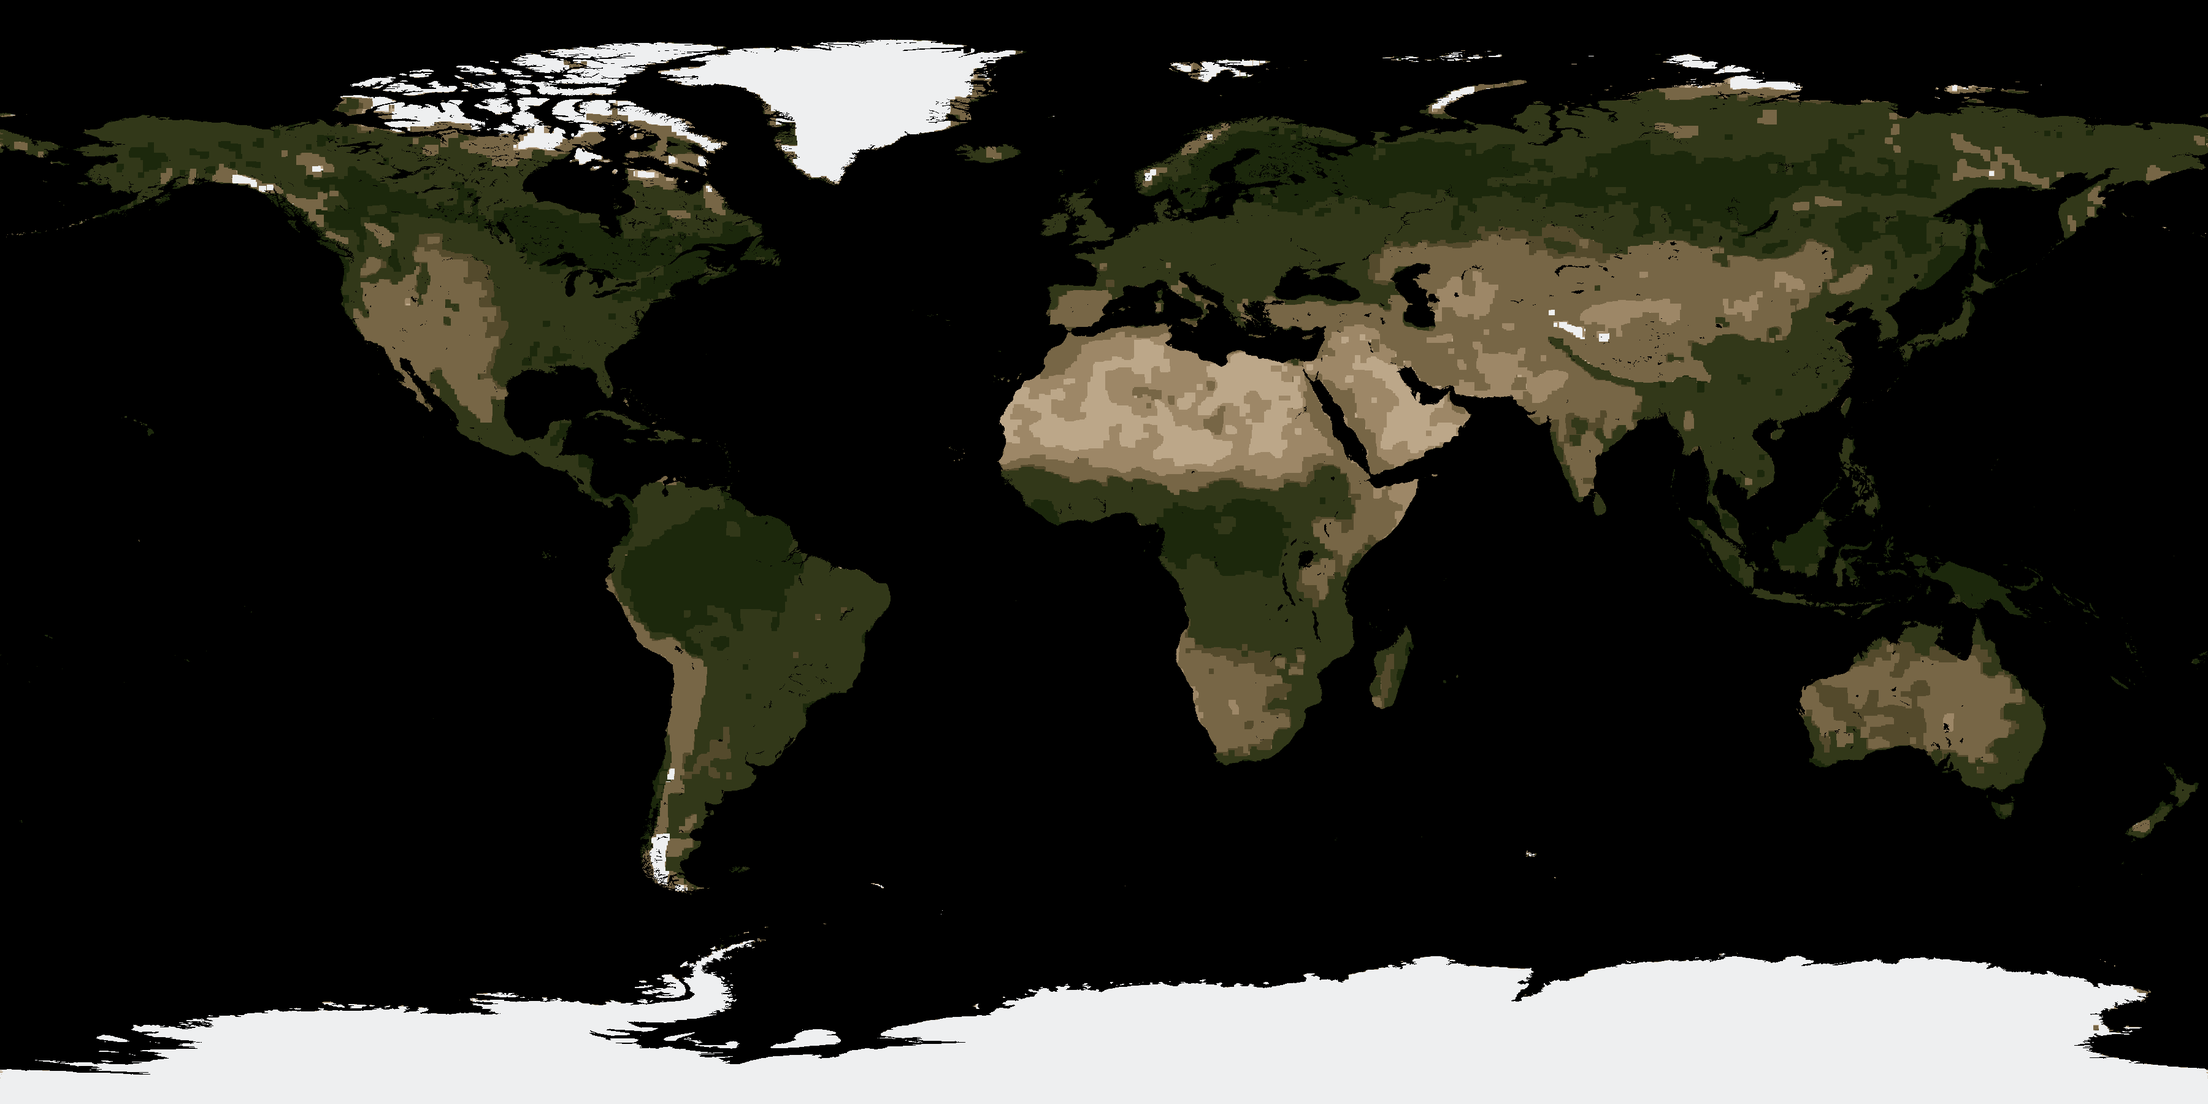
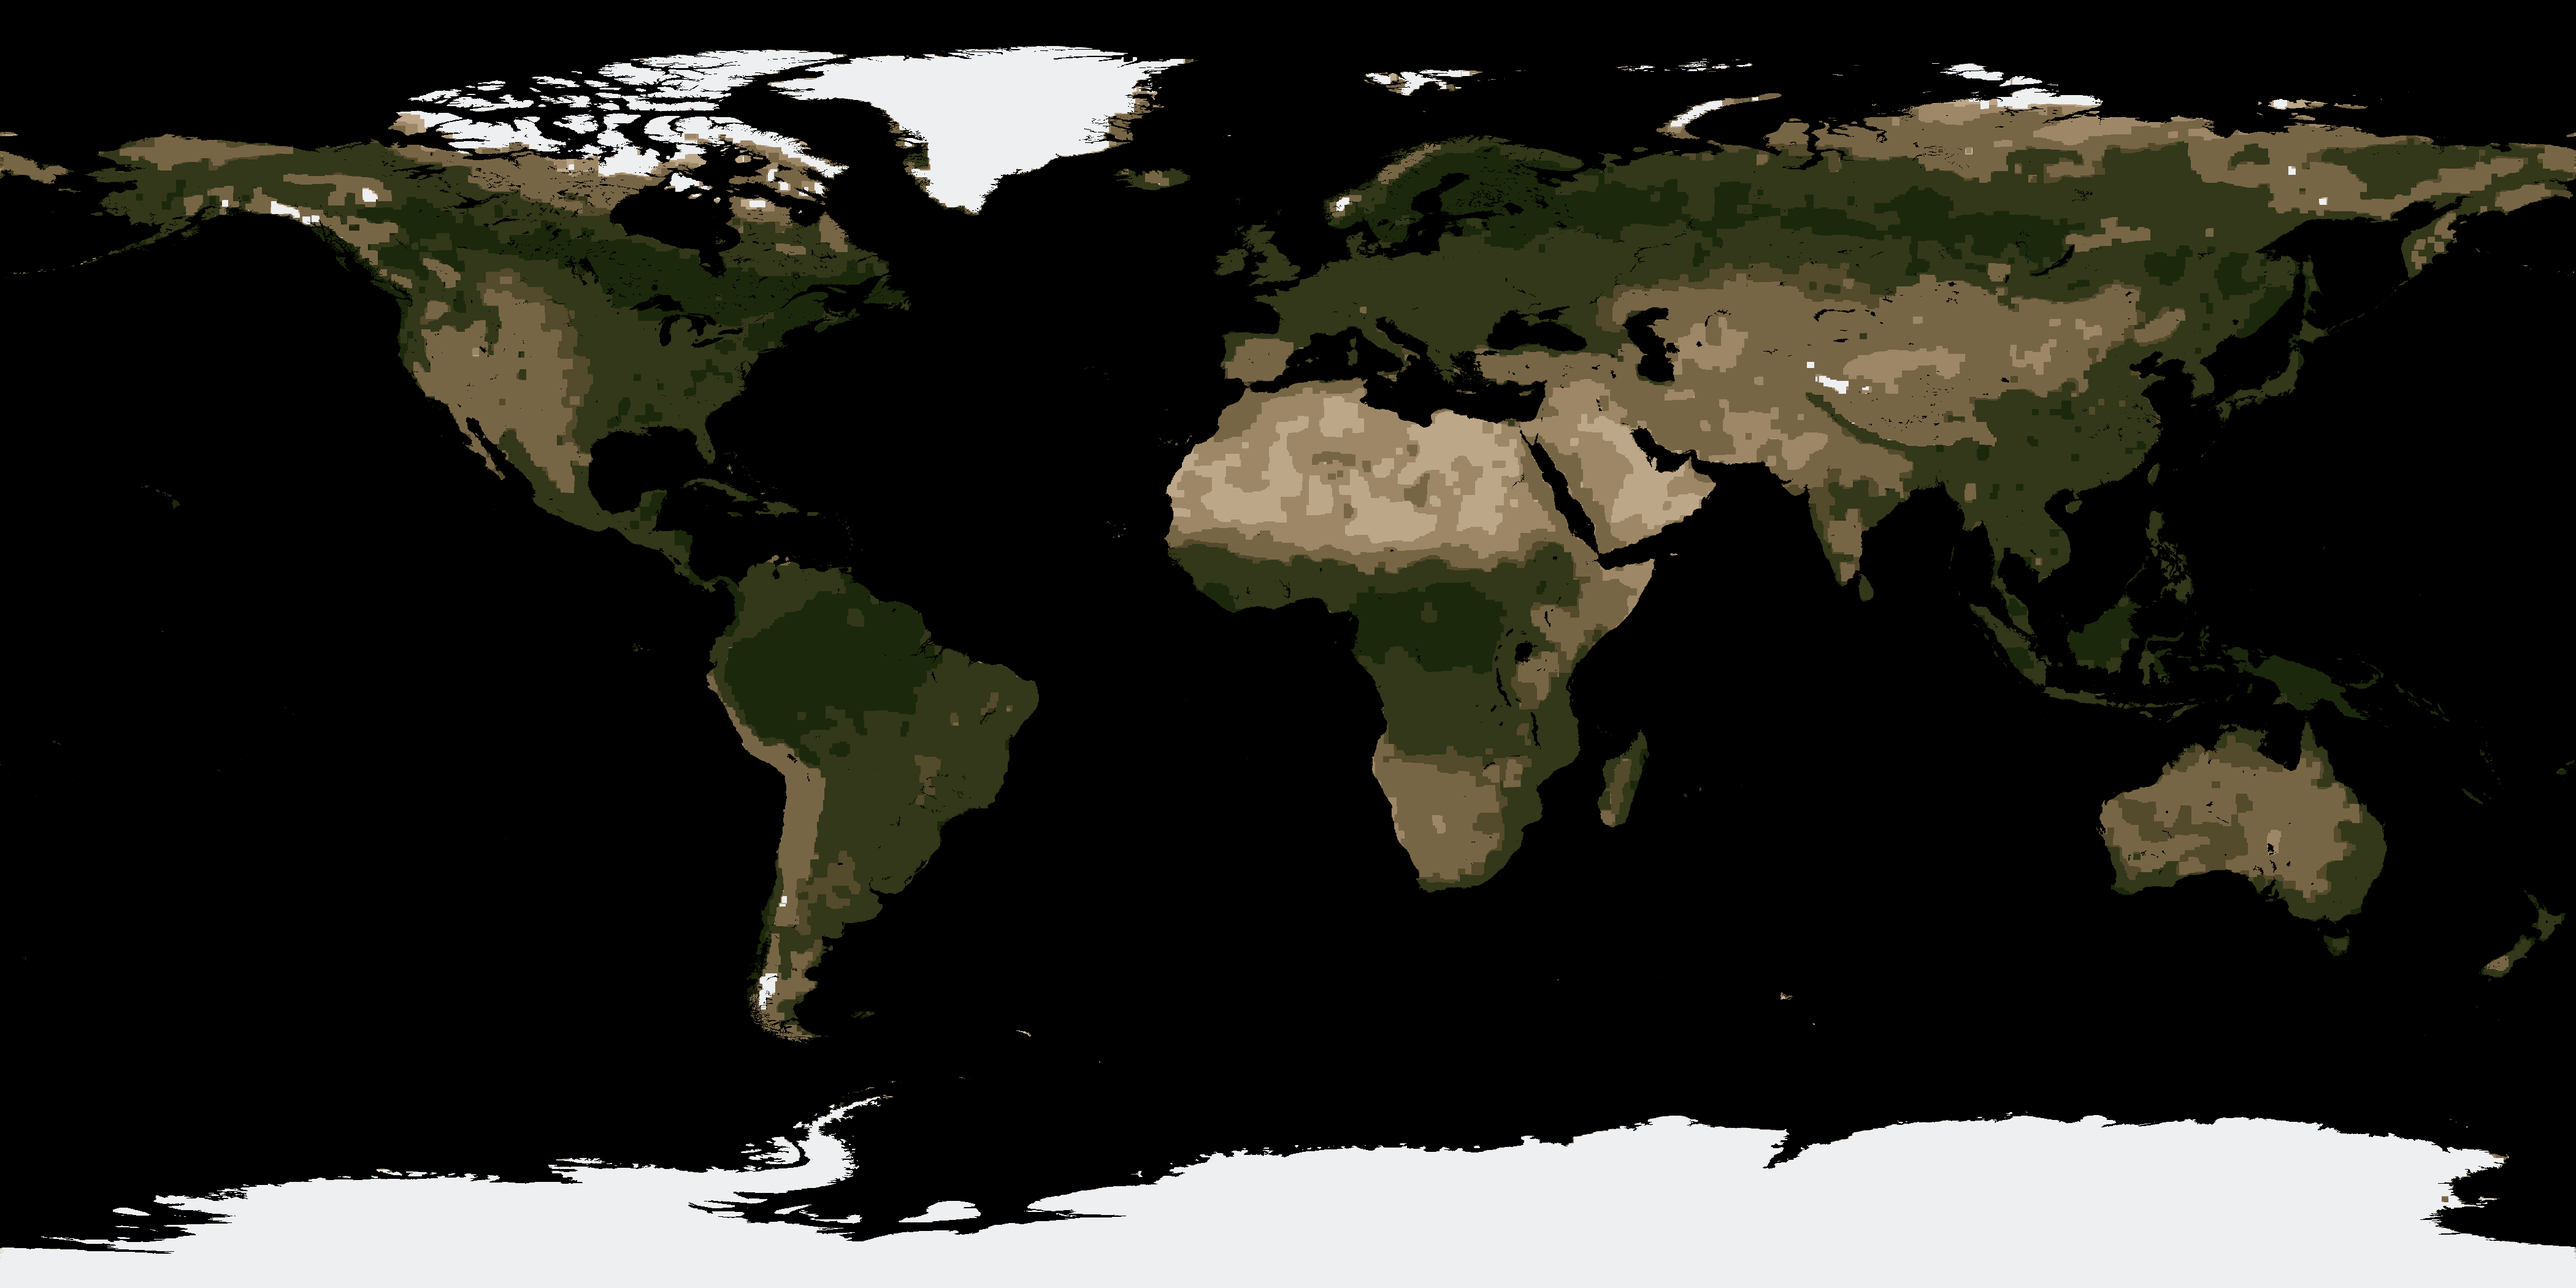
Improve base map

diff --git a/app/src/main/java/com/kylecorry/trail_sense/shared/map_layers/ui/layers/BaseMapLayerManager.kt b/app/src/main/java/com/kylecorry/trail_sense/shared/map_layers/ui/layers/BaseMapLayerManager.kt
@@ -39,7 +39,7 @@ class BaseMapLayerManager(
                         )
                     ),
                     MapMetadata(
-                        Size(3600f, 1800f),
+                        Size(4200f, 2100f),
                         null,
                         0,
                         MapProjectionType.CylindricalEquidistant
